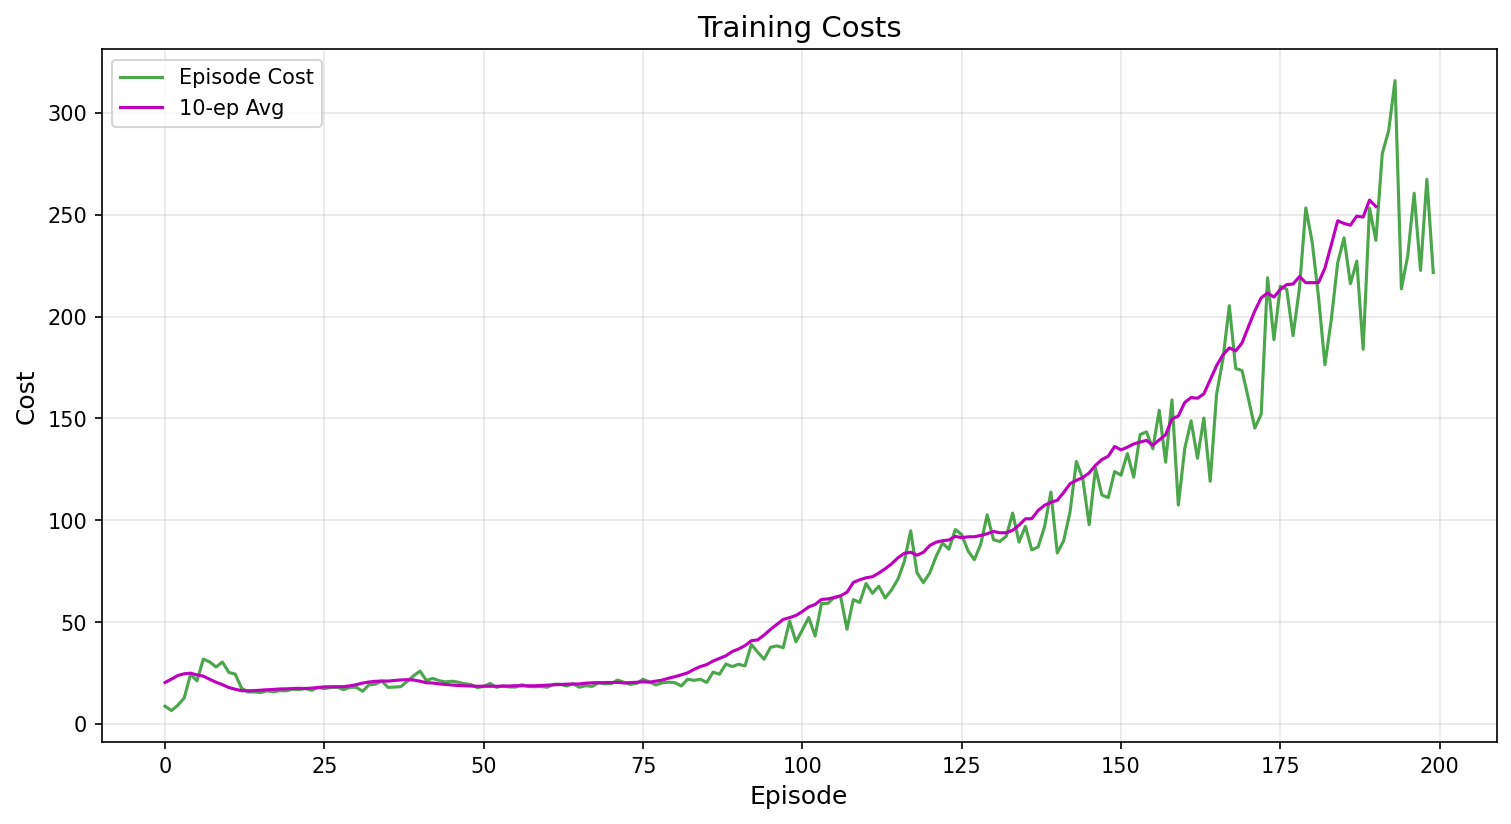
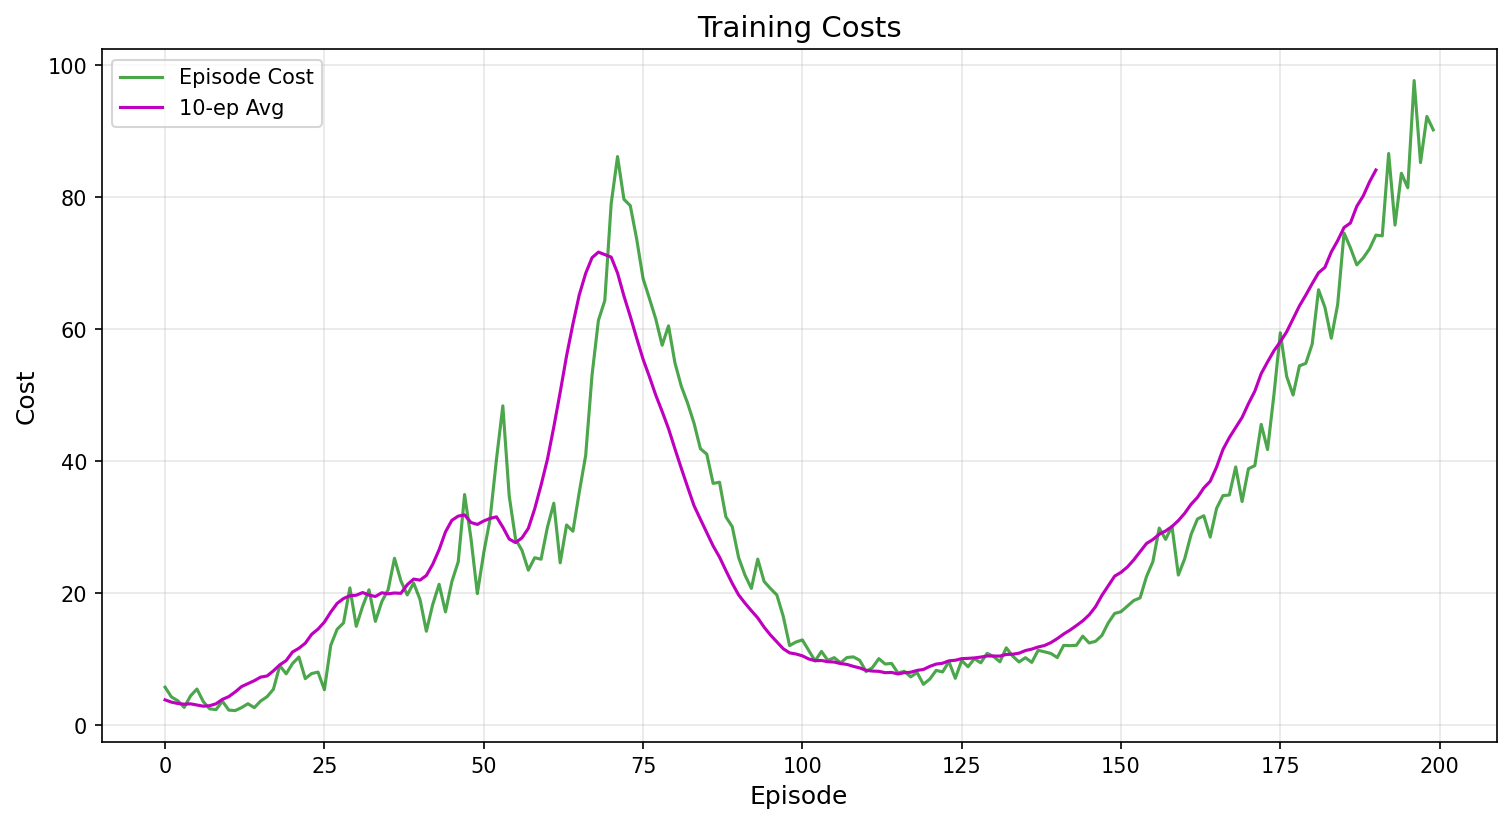
add reslts and update code

diff --git a/homeworks/HW14_Safe_RL/code/py.py b/homeworks/HW14_Safe_RL/code/py.py
@@ -413,7 +413,7 @@ class SimpleEnv:
         self.state[:2] = np.clip(self.state[:2] + action * 0.1, 0, 1)
         
         # Reward: Move toward goal
-        reward = np.linalg.norm(self.state - self.goal)
+        reward = -np.linalg.norm(self.state - self.goal)
         
         # Cost: Energy consumption
         cost = np.sum(action**2) * 0.1
@@ -449,8 +449,9 @@ if __name__ == "__main__":
     agent = PPOLagrangian(
         state_dim=env.state_dim,
         action_dim=env.action_dim,
-        cost_limit=5.0,  # Should be higher than expected cost
         clip=0.2,
+            cost_limit=15.0,  
+
         gamma=0.99,
         lr=1e-4,  # Reduced from 3e-4
         lr_value=5e-4,  # Reduced from 1e-3
